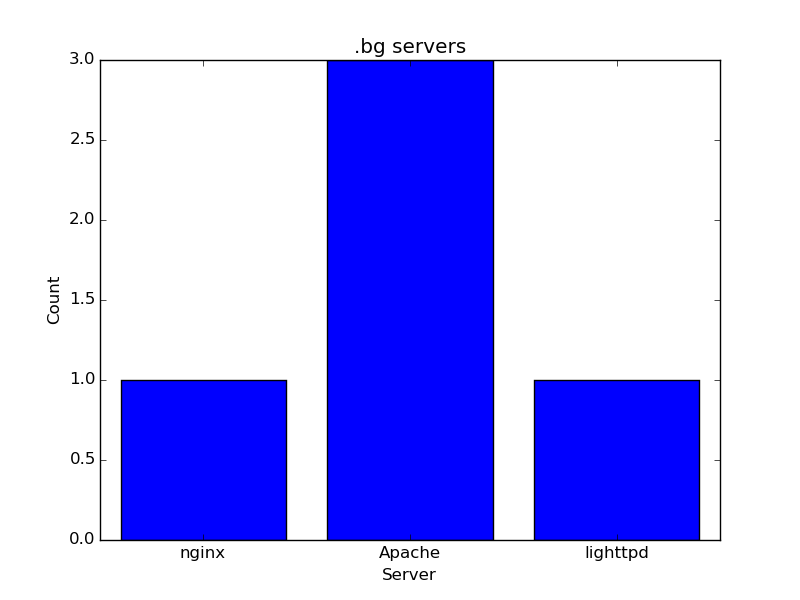
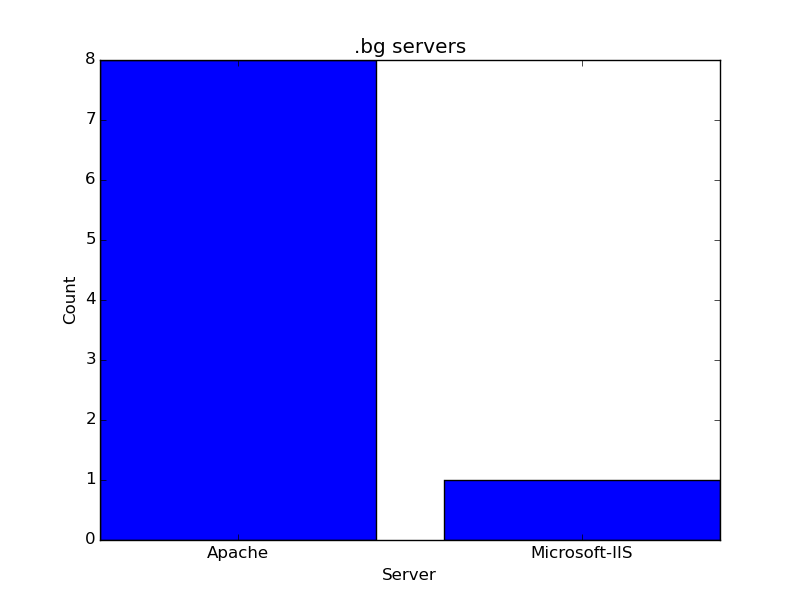
changed to request.head

diff --git a/Week7/requesting.py b/Week7/requesting.py
@@ -3,6 +3,7 @@ from bs4 import BeautifulSoup
 import re
 from Histogram import Histogram
 import matplotlib.pyplot as plt
+import json
 
 
 url = "http://register.start.bg"
@@ -17,20 +18,24 @@ symbols = ["/", "-", "\\"]
 for row in soup.find_all("a"):
     if isinstance(row.get("href"), str) and row.get("href")[:4] == "link":
         ids.append(row.get("href")[-5:])
-for x in range(40, 50):
+for x in range(30, 40):
     try:
-        rr = requests.get(
-            custom_url + str(ids[x]), headers=custom_header, timeout=1)
-        server = dict(rr.headers)["server"]
-        print (server)
+        rr = requests.head(
+            custom_url + str(ids[x]), headers=custom_header, timeout = 2, allow_redirects = True)
+        server = (dict(rr.headers)["server"])
+        print(server)
         if "/" in server:
             position = server.find("/")
+            h.add_server(server[:position])
+        elif "-" in server:
+            position = server.find("-")
             h.add_server(server[:position])
         else:
             h.add_server(server)
     except Exception:
         print("cant connect to site !")
 
+print(h.get_dict())
 h = h.get_dict()
 keys = list(h.keys())
 values = list(h.values())
